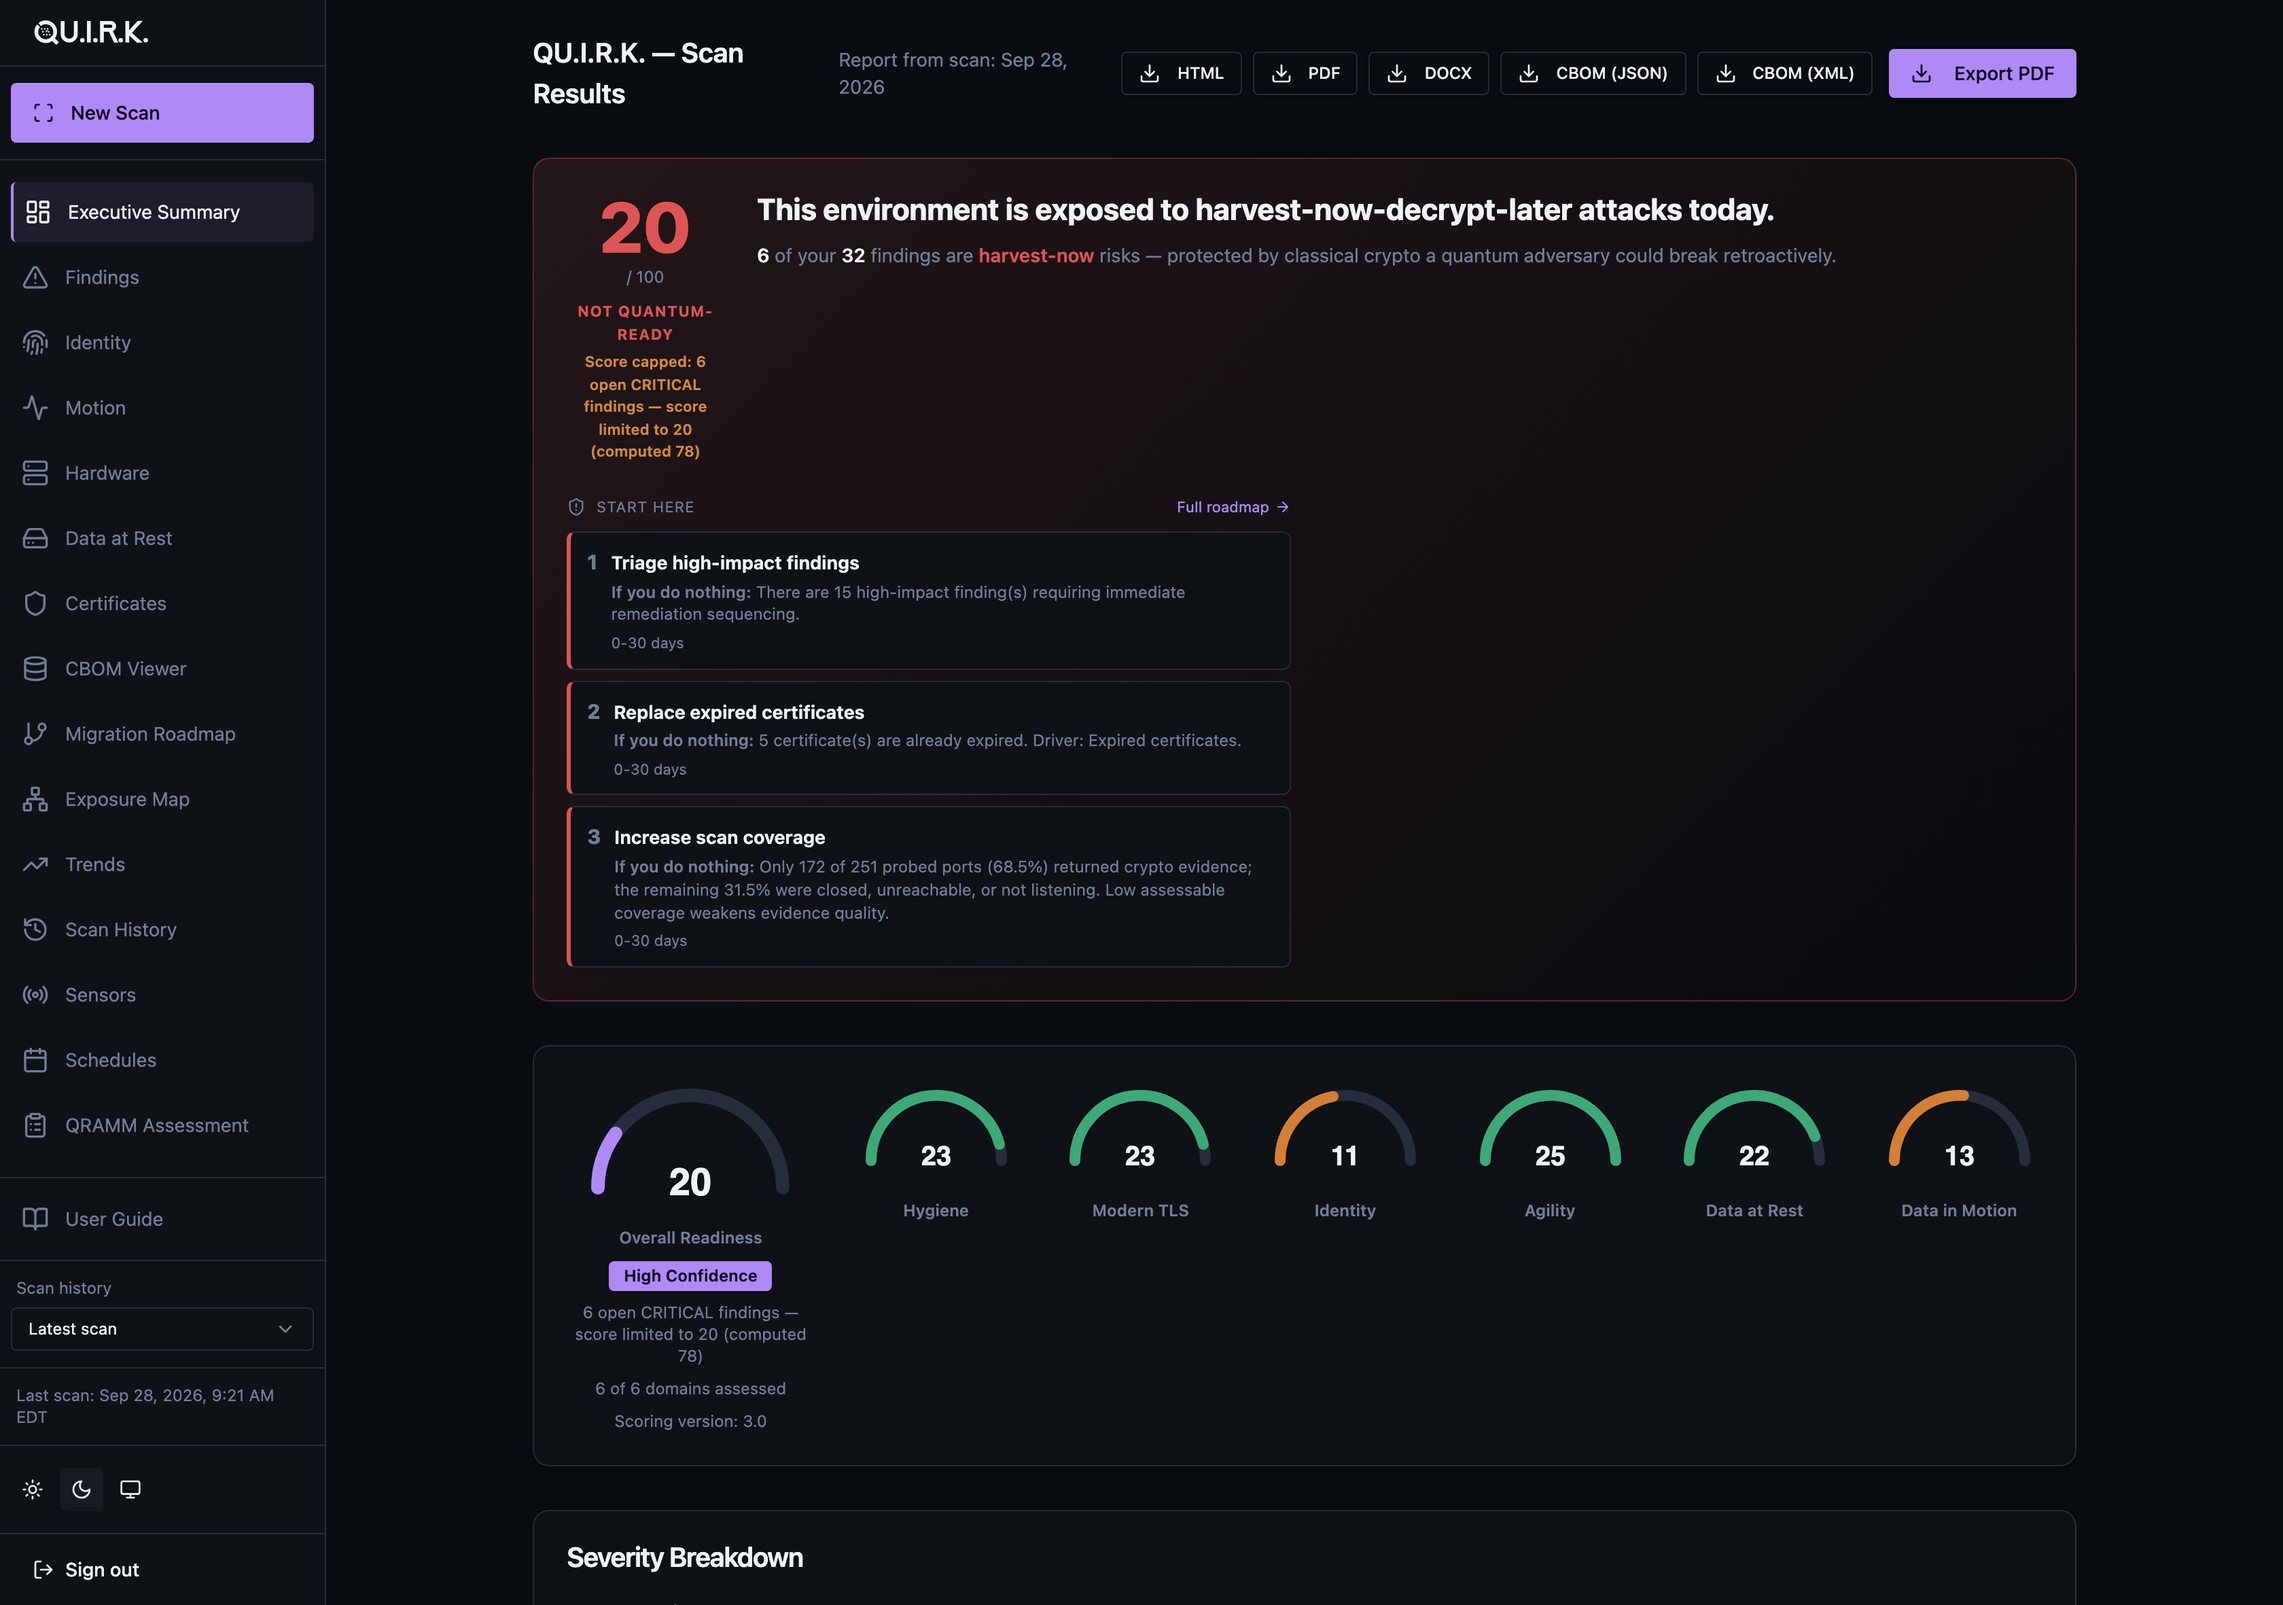
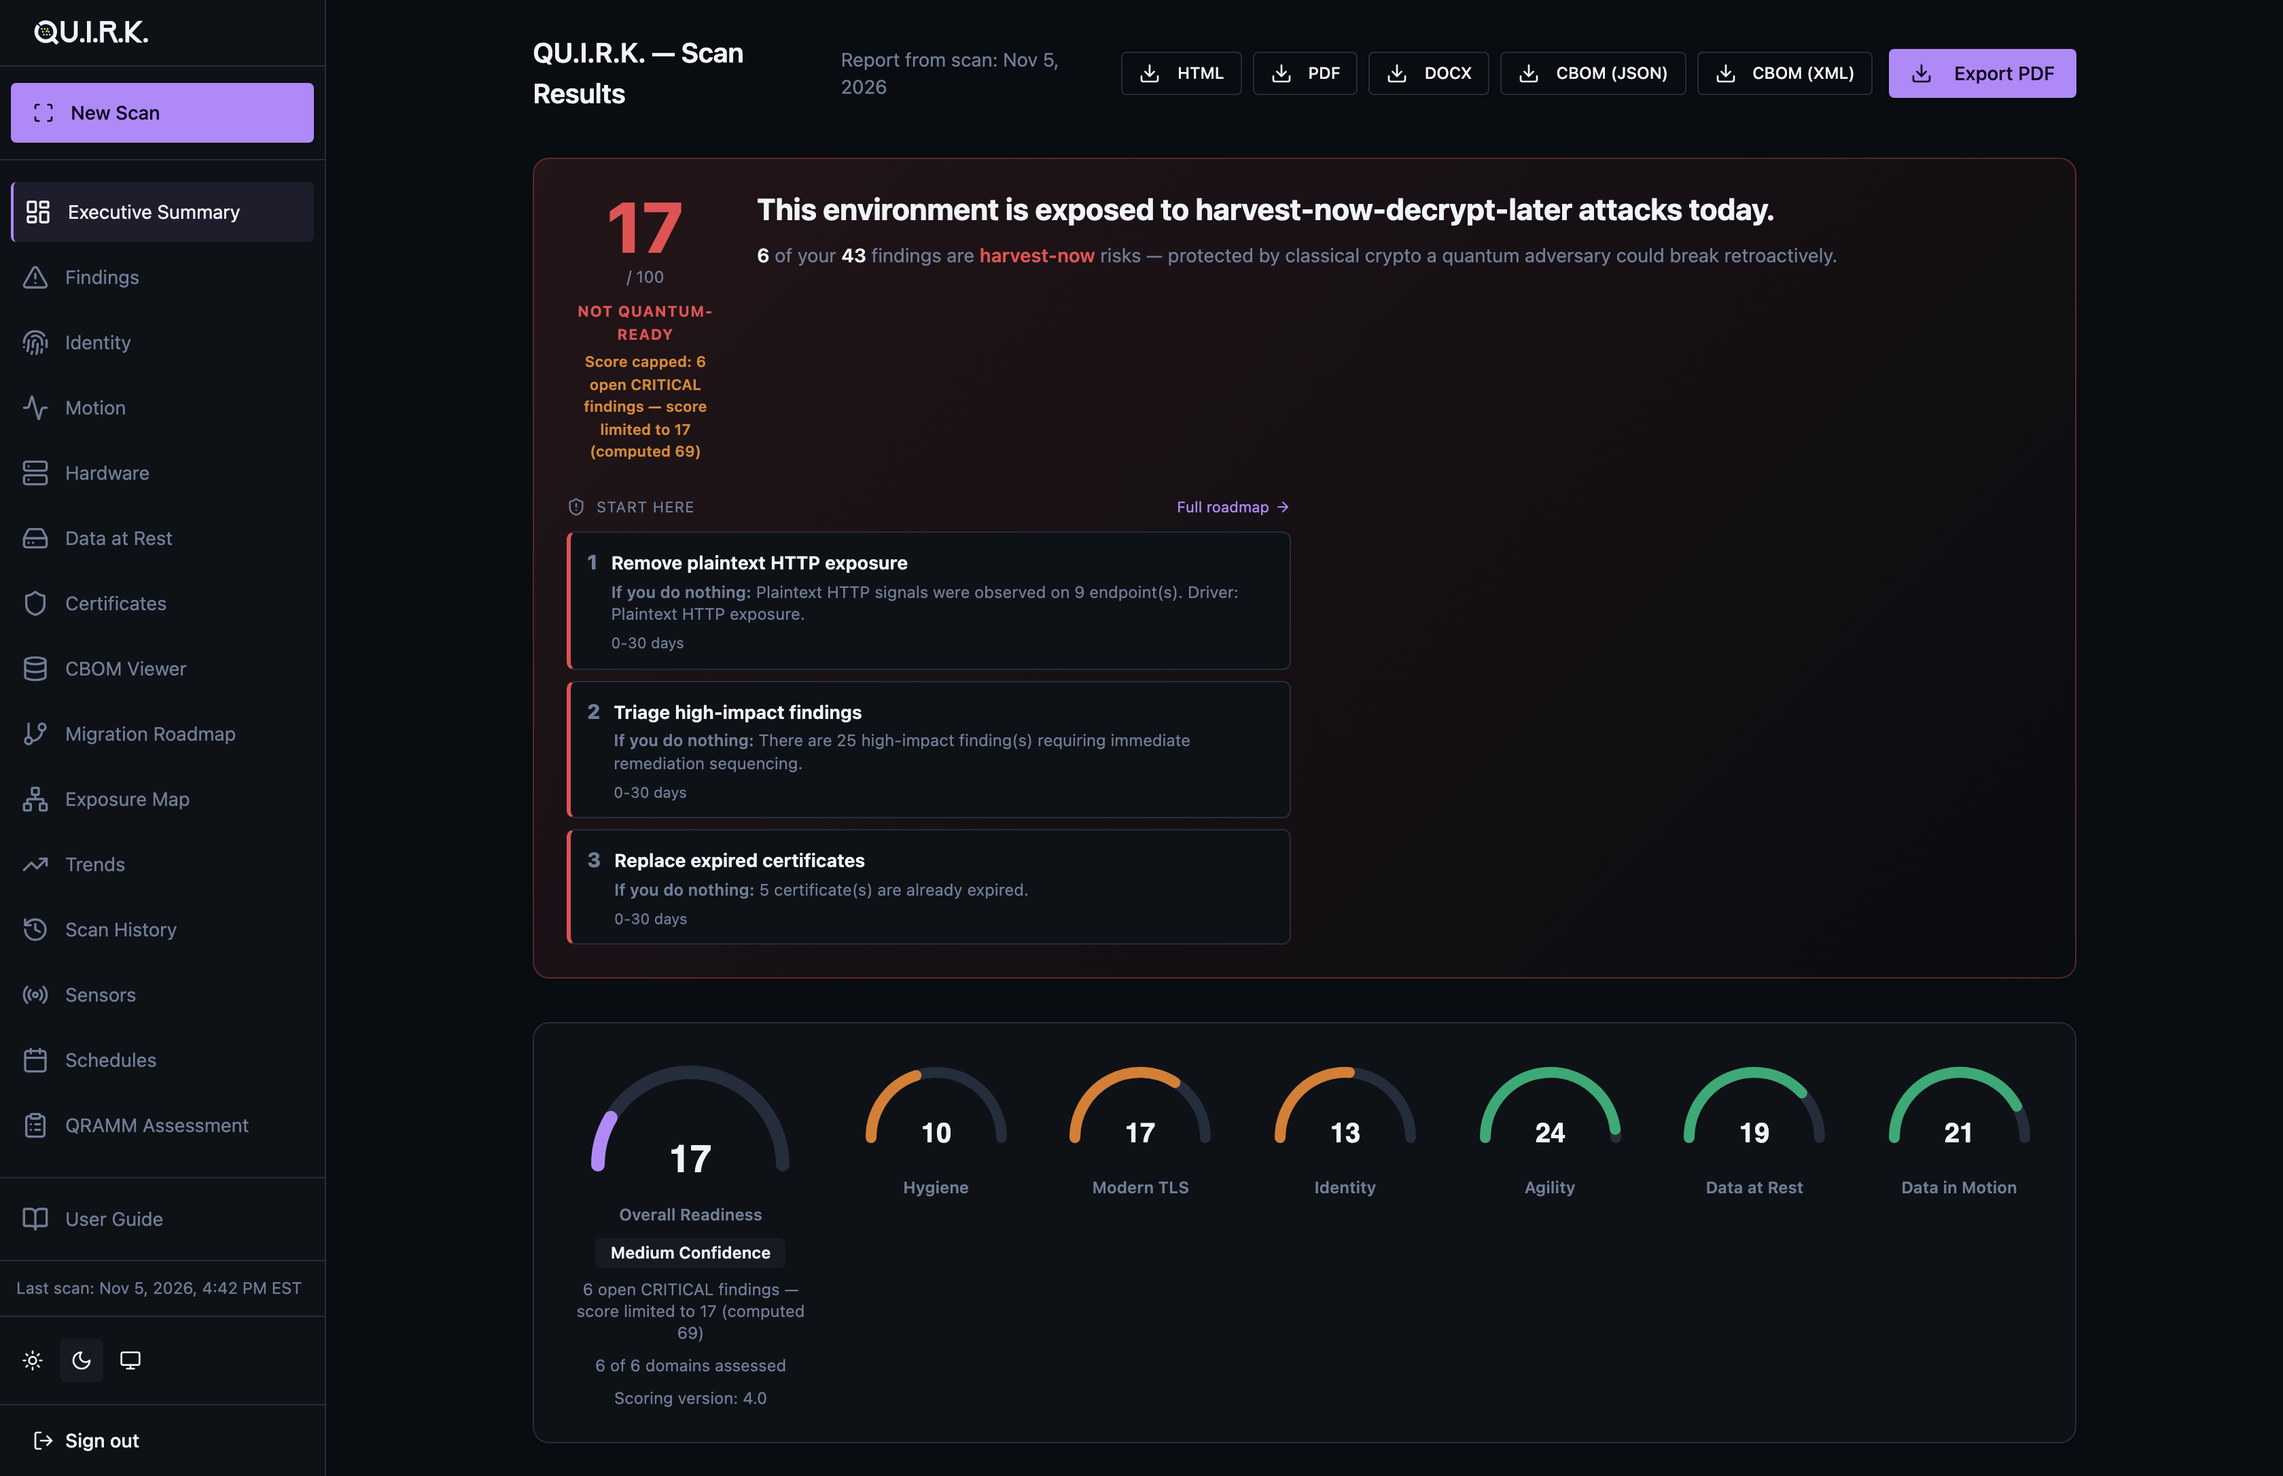
docs(readme): recapture the hero from a 5.28.1 scan (operator approved)
docs/images/dashboard-hero.png was still the 5.27.0 / scoring 3.0 capture
(score 20, computed 78), a caveat recorded at the 5.28.0 GO. Recaptured from
a fresh 5.28.1 multihost chaos-lab scan: score 17 capped by six open
CRITICAL findings (computed 69), 6 of 6 domains assessed, scoring 4.0,
3360x2172, 796127 bytes. The operator viewed and approved it 2026-11-05.

- README caption re-measured (17 / 69); ledger rows DCL-README-0023..0026
  re-verified against the capture evidence and the scan DB
- scripts/capture_readme_hero.py: --artifacts-dir (default quirk-output/),
  so a hero can come from a scratch scan without copying report files into
  the canonical output dir; test red when the flag is ignored
- The scan ran in chaoslab-mh-prober-1 rebuilt from this tree (quirk
  --version 5.28.1) with /out overridden to a scratch dir, so
  ./quirk-output/quirk.db was never mounted (sha256 unchanged)

Claude-Session: https://claude.ai/code/session_012viebtjHoMfq4PjgcafYvf

diff --git a/scripts/capture_readme_hero.py b/scripts/capture_readme_hero.py
@@ -118,7 +118,8 @@ def stamp_from_scanned_at(scanned_at: str) -> str:
     return ymd.replace("-", "") + "-" + hms[:8].replace(":", "")
 
 
-def build_scoped_config(stamp: str, workdir: str, evidence: dict) -> str:
+def build_scoped_config(stamp: str, workdir: str, evidence: dict,
+                        artifacts_dir: Path | None = None) -> str:
     """Write a config whose output.directory holds ONLY the canonical scan's real
     report artifacts (symlinked, never regenerated), so the executive header's
     "Report from scan" refers to the scan the dashboard is displaying rather than
@@ -126,7 +127,7 @@ def build_scoped_config(stamp: str, workdir: str, evidence: dict) -> str:
     """
     import yaml
 
-    src_dir = REPO_ROOT / "quirk-output"
+    src_dir = artifacts_dir if artifacts_dir is not None else REPO_ROOT / "quirk-output"
     out_dir = Path(workdir) / "reports"
     out_dir.mkdir(parents=True, exist_ok=True)
     linked = []
@@ -137,7 +138,7 @@ def build_scoped_config(stamp: str, workdir: str, evidence: dict) -> str:
         n.startswith("run-stats-") for n in linked
     ):
         raise SystemExit(
-            f"NO_REPORT_ARTIFACTS: quirk-output/ has no report-{stamp}.html + "
+            f"NO_REPORT_ARTIFACTS: {src_dir} has no report-{stamp}.html + "
             f"run-stats-{stamp}.json for the canonical scan; generate them first."
         )
     cfg = yaml.safe_load((REPO_ROOT / "config.yaml").read_text())
@@ -415,6 +416,8 @@ def main(argv=None) -> int:
     ap.add_argument("--height", type=int, default=900)
     ap.add_argument("--out", default="docs/images/dashboard-hero.png")
     ap.add_argument("--db", default=str(REPO_ROOT / "quirk-output" / "quirk.db"))
+    ap.add_argument("--artifacts-dir", default=None,
+                    help="Directory holding the scan's report-*/run-stats-* files (default: quirk-output/).")
     ap.add_argument("--allow-wrapped-gauges", action="store_true",
                     help="Do not fail when the 7 gauges wrap (layout is max-w-[1200px]; width cannot fix it).")
     ap.add_argument("--pad", type=int, default=24)
@@ -464,7 +467,8 @@ def _run(args, db: Path, evidence: dict) -> None:
     # and the report symlinks live only for the duration of the capture.
     with tempfile.TemporaryDirectory(prefix="quirk-hero-reports-") as workdir:
         cfg_path = build_scoped_config(
-            stamp_from_scanned_at(scanned_at), workdir, evidence)
+            stamp_from_scanned_at(scanned_at), workdir, evidence,
+            Path(args.artifacts_dir).resolve() if args.artifacts_dir else None)
         _capture_with_server(args, db, cfg_path, evidence)
 
 

diff --git a/tests/test_readme_hero.py b/tests/test_readme_hero.py
@@ -322,3 +322,37 @@ def test_server_output_goes_to_a_log_file_not_an_unread_pipe(tmp_path, monkeypat
     msg = str(exc.value)
     assert msg.startswith("SERVER_NOT_READY") and "boom-from-uvicorn" in msg
     assert list(tmproot.iterdir()) == []
+
+
+def test_build_scoped_config_reads_an_explicit_artifacts_dir(tmp_path, monkeypatch):
+    """235.2: --artifacts-dir lets the hero come from a scratch scan, so the
+    capture never needs report files copied into the canonical quirk-output/."""
+    import pytest
+    import yaml
+
+    import scripts.capture_readme_hero as hero
+
+    root = tmp_path / "repo"
+    root.mkdir()
+    (root / "config.yaml").write_text("output:\n  directory: ./quirk-output\n", encoding="utf-8")
+    monkeypatch.setattr(hero, "REPO_ROOT", root)
+    stamp = "20261105-214340"
+    arts = tmp_path / "scratch"
+    arts.mkdir()
+    for name in (f"report-{stamp}.html", f"run-stats-{stamp}.json", "report-20260101-000000.html"):
+        (arts / name).write_text("x", encoding="utf-8")
+    work = tmp_path / "work"
+    work.mkdir()
+    evidence: dict = {}
+    cfg_path = hero.build_scoped_config(stamp, str(work), evidence, arts)
+    linked = sorted(p.name for p in (work / "reports").iterdir())
+    assert linked == [f"report-{stamp}.html", f"run-stats-{stamp}.json"]
+    assert all((work / "reports" / n).resolve().parent == arts.resolve() for n in linked)
+    cfg = yaml.safe_load(open(cfg_path, encoding="utf-8"))
+    assert cfg["output"]["directory"] == str(work / "reports")
+
+    # Default (no artifacts_dir) still reads REPO_ROOT/quirk-output and fails
+    # closed when that scan's files are not there.
+    with pytest.raises(SystemExit) as exc:
+        hero.build_scoped_config(stamp, str(tmp_path / "work2"), {})
+    assert str(exc.value).startswith("NO_REPORT_ARTIFACTS") and "quirk-output" in str(exc.value)

diff --git a/README.md b/README.md
@@ -26,7 +26,7 @@ It produces three things:
 > **Only scan systems you own or are explicitly authorized to assess.** QU.I.R.K. actively connects to the targets you give it: TLS handshakes, SSH negotiation, HTTP and SNMP requests, LDAP and Kerberos queries, and optional read-only OT/ICS probes. Get written authorization before scanning anyone else's infrastructure. The CLI and the dashboard's New Scan form can also check targets against an optional trusted-targets allowlist (`security.trusted_targets`), and the check covers `targets.include_ips` and the host-naming connector fields it recognizes, whether or not that connector is enabled. Known gaps in 5.28.1: a connector target field written as a single value instead of a list may not be checked, LDAP referrals returned to the AD CS, S/MIME and code-signing scanners are not checked, and a non-ASCII IPv6 zone id is not rejected. See the [Operator's Guide](https://github.com/0xD1g5/QU.I.R.K/blob/v5.28.1/docs/operators-guide.md).
 
 ![QU.I.R.K. dashboard — executive summary](https://raw.githubusercontent.com/0xD1g5/QU.I.R.K/v5.28.1/docs/images/dashboard-hero.png)
-*The executive summary for a scan of the bundled chaos lab, which is deliberately weak. The score is capped at 20 because six CRITICAL findings are open, even though the computed score is 78. It shows the harvest-now-decrypt-later verdict, the first three remediation steps, and the six subscores.*
+*The executive summary for a scan of the bundled chaos lab, which is deliberately weak. The score is capped at 17 because six CRITICAL findings are open, even though the computed score is 69. It shows the harvest-now-decrypt-later verdict, the first three remediation steps, and the six subscores.*
 
 ## For your role
 
